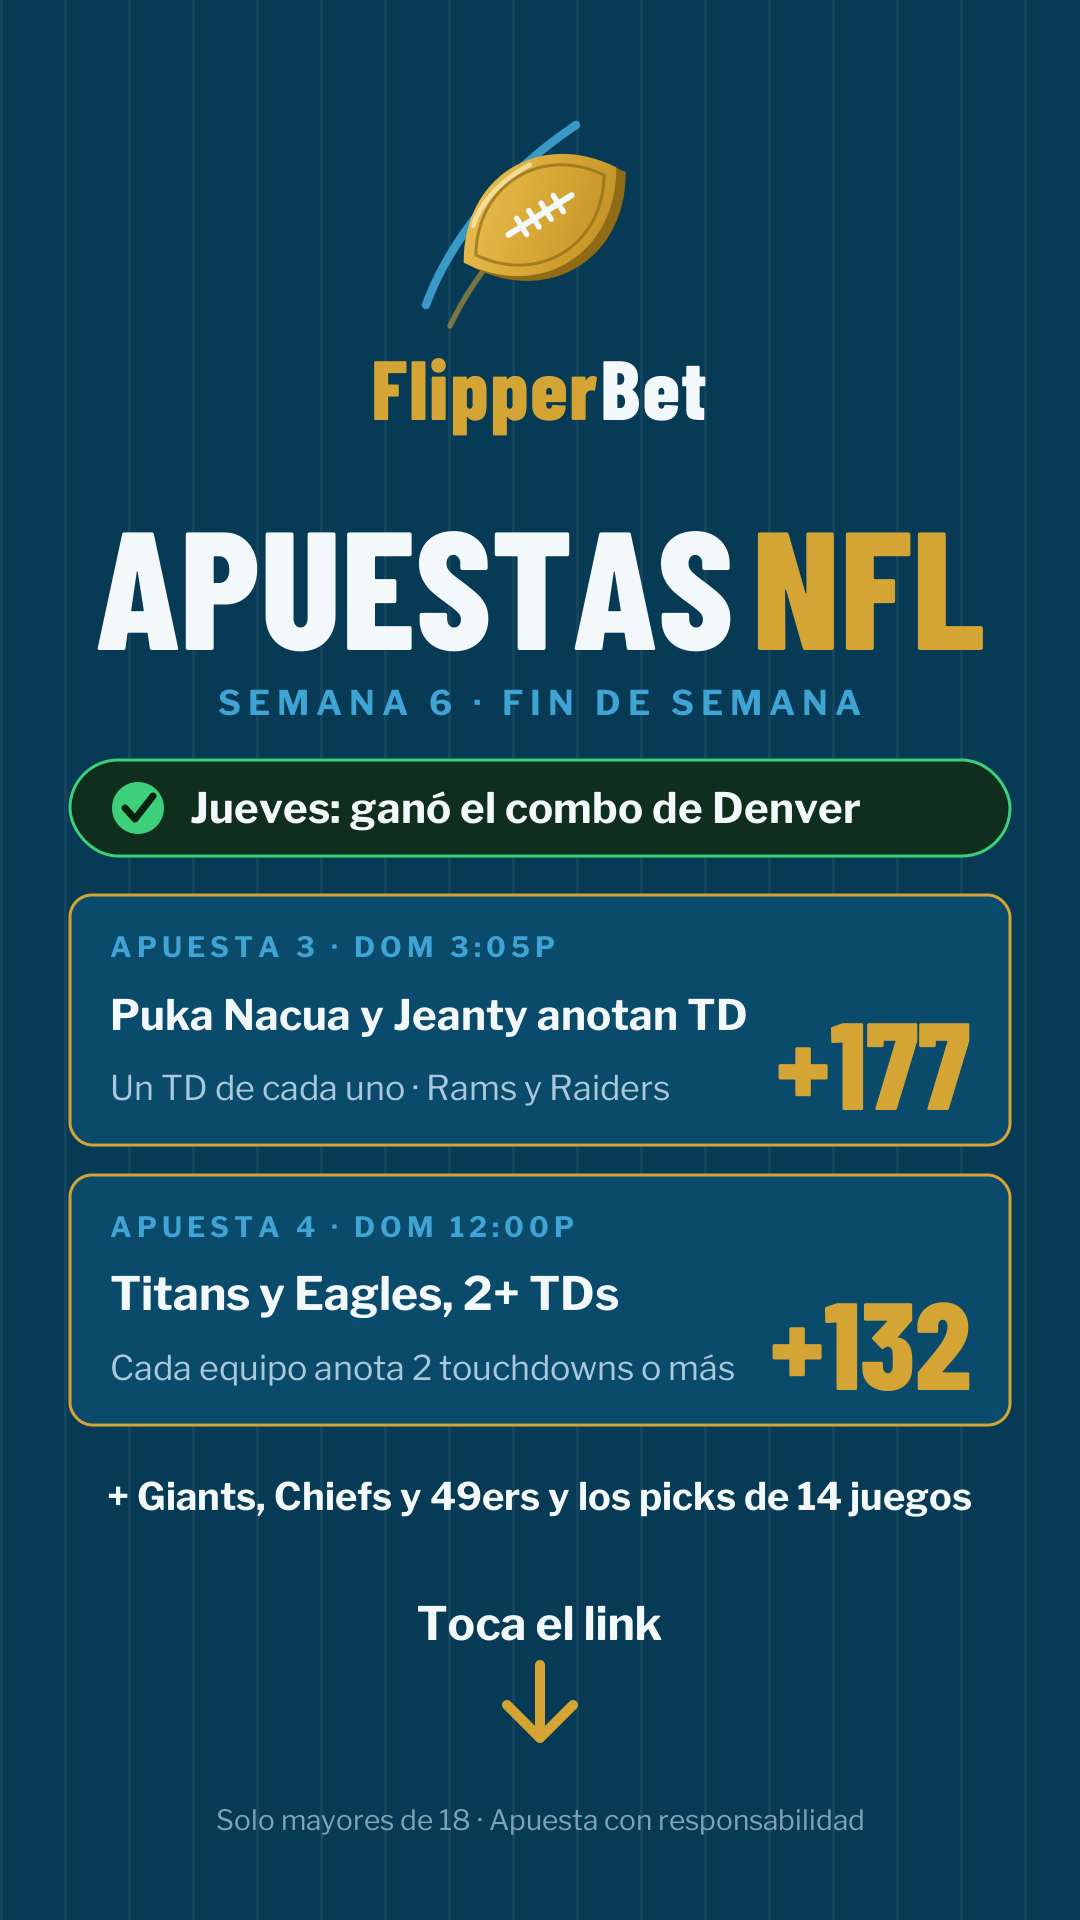
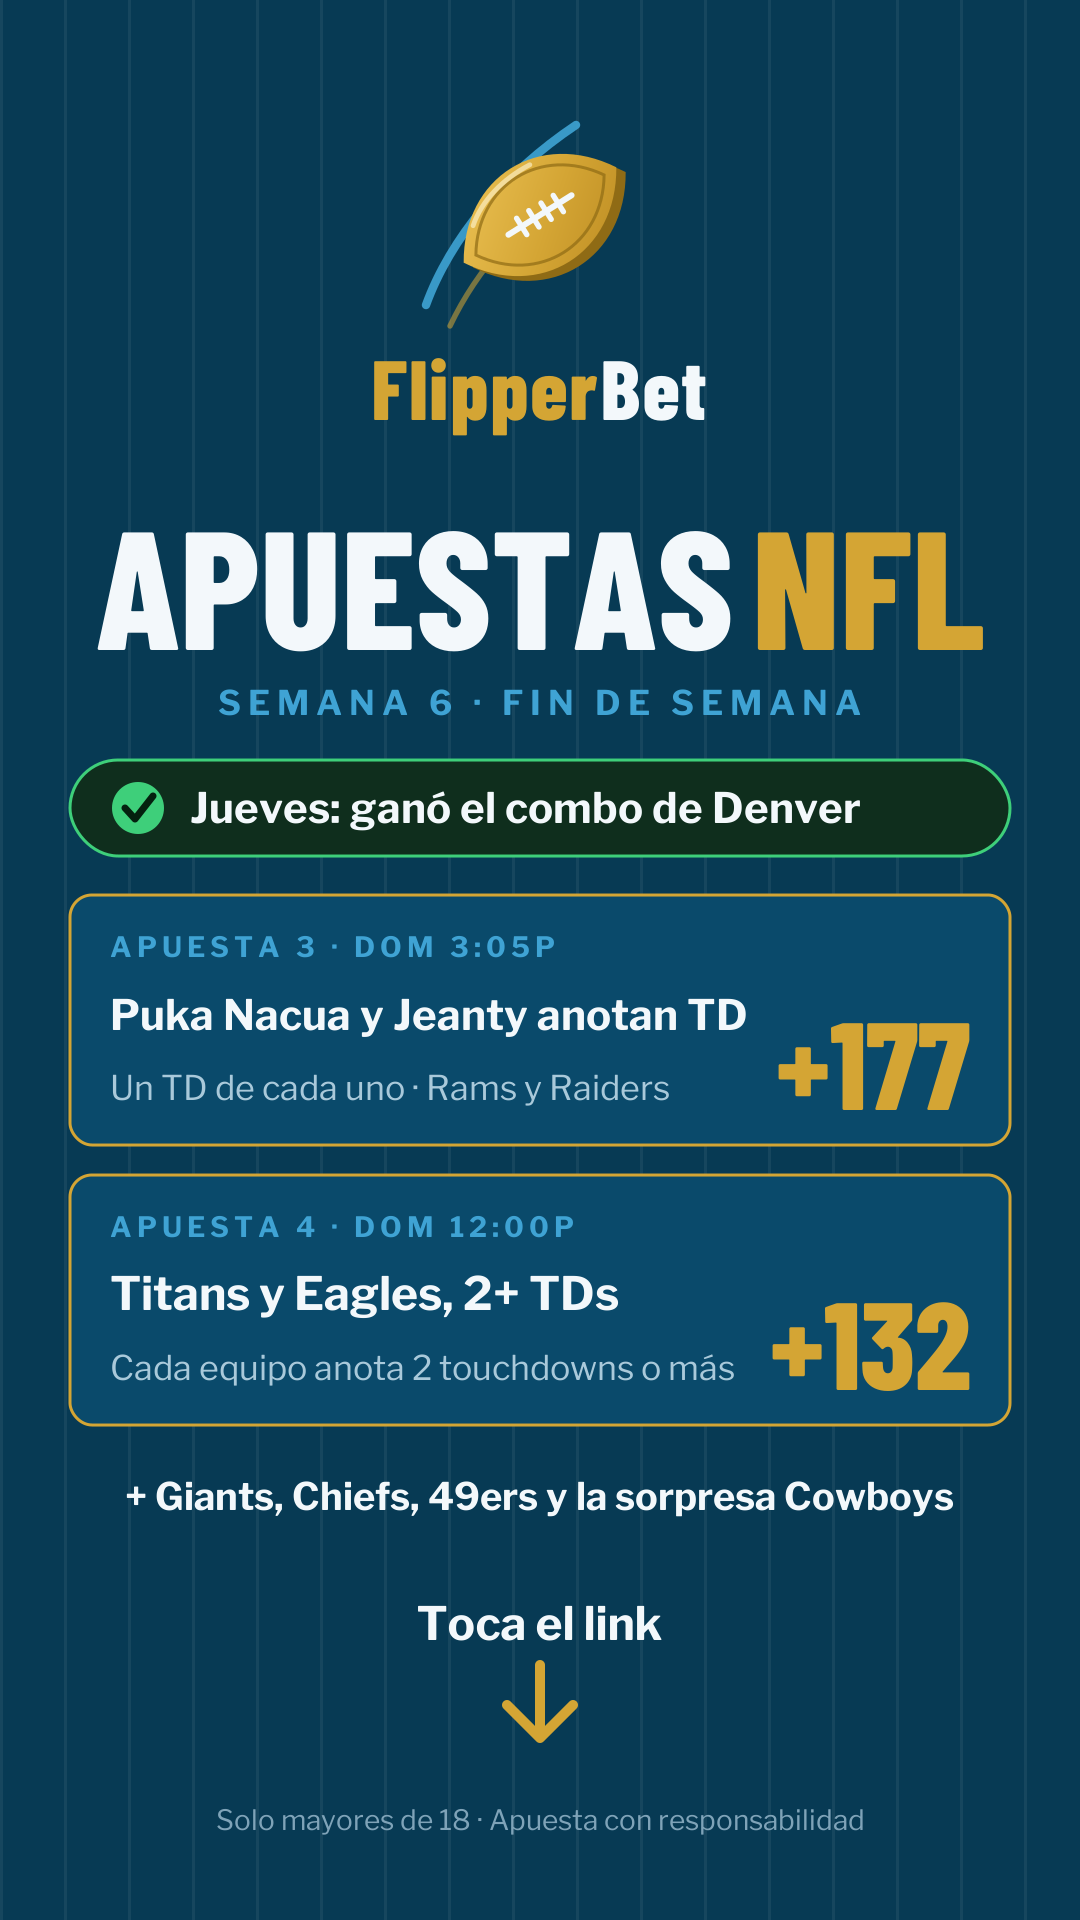
Semana 6: Cowboys como sorpresa en DAL @ GB y pick cambiado a DAL; historias actualizadas
Claude-Session: https://claude.ai/code/session_01QeM3HeHPtdJUYaWBPFXKuZ

Changed region(s): [[0.55, 0.75, 0.8861, 0.8125], [0.1222, 0.75, 0.3972, 0.8125], [0.3972, 0.75, 0.4278, 0.7812]]

diff --git a/semanas/2026-semana-6.html b/semanas/2026-semana-6.html
@@ -14,7 +14,7 @@
 <title>FlippBetBlog NFL Semana 6</title>
 <meta name="description" content="Blog semanal de NFL en español: quién puede dar la sorpresa y la clave de cada partido, explicado fácil.">
 <meta property="og:title" content="FlippBetBlog NFL · Semana 6">
-<meta property="og:description" content="Las 2 sorpresas posibles y la clave de los 14 partidos de la Semana 6, explicado fácil.">
+<meta property="og:description" content="Las 3 sorpresas posibles y la clave de los 14 partidos de la Semana 6, explicado fácil.">
 <meta property="og:type" content="article">
 <meta property="og:url" content="https://jlmz2010.github.io/flipperbet/semanas/2026-semana-6.html">
 <meta property="og:locale" content="es_MX">
@@ -151,7 +151,7 @@ footer strong{color:var(--warn)}
   <div class="hero">
     <div class="eyebrow">NFL 2026 · Publicado 15 oct · Actualizado 17 oct</div>
     <h1>Semana <em>6</em></h1>
-    <p class="dek">Qué puede decidir cada partido, contado en corto y sin enredos. Más los dos equipos que pueden dar la sorpresa.</p>
+    <p class="dek">Qué puede decidir cada partido, contado en corto y sin enredos. Más los tres equipos que pueden dar la sorpresa.</p>
     <div class="byline"><span>Por Flipper</span><span>Lectura: 5 min</span><span>14 partidos</span></div>
   </div>
 
@@ -164,18 +164,20 @@ footer strong{color:var(--warn)}
     <div class="dog-head">
       <div style="display:flex;flex-direction:column;gap:8px">
         <span class="tag">Pueden dar la sorpresa</span>
-        <h2>Giants y Broncos</h2>
-        <div class="eyebrow">Jueves 7:15p · domingo 12:00p (hora Cancún)</div>
+        <h2>Giants, Broncos y Cowboys</h2>
+        <div class="eyebrow">Jueves 7:15p · domingo 12:00p y 7:20p (hora Cancún)</div>
       </div>
-      <div class="line-chip">2 sorpresas</div>
+      <div class="line-chip">3 sorpresas</div>
     </div>
     <div class="dogs">
       <div class="dogcard won"><span class="eyebrow">Jueves 7:15p · Seahawks en Broncos <span class="won-badge">GANÓ</span></span><h3>Broncos</h3><p class="chance">Posibilidad de ganar: <strong>4 de 10</strong></p><p><strong>Resultado: Broncos 17, Seahawks 14 (tiempo extra).</strong> Sam Darnold lanzó dos intercepciones, la última en el primer ataque del tiempo extra, y Wil Lutz lo cerró con gol de campo de 53 yardas. Los dos equipos llegan con 3 ganados y 2 perdidos, y casi nada los separa. Denver juega en casa y con solo tres días de descanso eso pesa más. La pregunta del partido: ¿Seattle cuida el balón o lo regala?</p></div>
       <div class="dogcard"><span class="eyebrow">Domingo 12:00p · Saints en Giants</span><h3>Giants</h3><p class="chance">Posibilidad de ganar: <strong>5 de 10</strong> (casi parejo)</p><p>Nueva York tiene un buen juego de pases con Malik Nabers e Isaiah Likely, y al corredor Cam Skattebo le toca una defensa de los Saints que sufre para frenar la carrera. Además los Giants patean y regresan mejor. Gana quien cometa menos errores.</p></div>
+      <div class="dogcard"><span class="eyebrow">Domingo 7:20p · Cowboys en Packers</span><h3>Cowboys</h3><p class="chance">Posibilidad de ganar: <strong>5 de 10</strong> (casi parejo)</p><p>Quizá el partido más difícil de la semana. Los dos lanzan pases largos y los dos sufren para defenderlos. Green Bay tiene a favor jugar en casa, y casi nada más los separa.</p></div>
     </div>
     <ul>
       <li><strong>Por qué los Broncos:</strong> partido muy cerrado, en casa y en jueves. Si Seattle pierde el balón una o dos veces, Denver lo puede ganar.</li>
       <li><strong>Por qué los Giants:</strong> en la práctica es un volado, y Nueva York tiene más formas de ganarlo: corriendo, defendiendo el pase y en equipos especiales.</li>
+      <li><strong>Por qué los Cowboys:</strong> es casi un volado y Dallas tiene con qué castigar una defensa que sufre contra el pase largo. Lo agregamos el sábado.</li>
       <li>¿Te interesa apostar? En <a href="../apuestas/">Apuestas NFL</a> explicamos paso a paso nuestras jugadas de la semana y todos mis picks.</li>
     </ul>
     <p class="note">La semana pasada: Ravens dio la sorpresa (30-23 en tiempo extra); Browns (12-17) y Colts (22-34) no pudieron. Esto es una opinión, no una garantía. Las posibilidades salen de los momios de casas de apuestas al 15 oct 2026 y pueden cambiar. Si cambiamos algo, lo actualizamos aquí antes del partido.</p>
@@ -233,7 +235,7 @@ footer strong{color:var(--warn)}
           <tr><td>Cardinals</td><td><strong class="fav">Rams</strong> <span class="fav-badge">FAV</span></td><td>Muy claro · 9 de 10</td><td>dom 3:05p</td></tr>
           <tr><td>Chargers</td><td><strong class="fav">Chiefs</strong> <span class="fav-badge">FAV</span></td><td>Muy claro · 8 de 10</td><td>dom 3:25p</td></tr>
           <tr><td><strong class="fav">Bills</strong> <span class="fav-badge">FAV</span></td><td>Raiders</td><td>Claro · 7 de 10</td><td>dom 3:25p</td></tr>
-          <tr><td>Cowboys</td><td><strong class="fav">Packers</strong> <span class="fav-badge">FAV</span></td><td>Casi parejo · 5 de 10</td><td>dom 7:20p</td></tr>
+          <tr class="hl"><td>Cowboys <span class="dog-badge">Sorpresa FB</span></td><td><strong class="fav">Packers</strong> <span class="fav-badge">FAV</span></td><td>Casi parejo · 5 de 10</td><td>dom 7:20p</td></tr>
           <tr><td>Commanders</td><td><strong class="fav">49ers</strong> <span class="fav-badge">FAV</span></td><td>Muy claro · 8 de 10</td><td>lun 7:15p</td></tr>
         </tbody>
       </table>

diff --git a/index.html b/index.html
@@ -14,7 +14,7 @@
 <title>FlippBetBlog NFL Semana 6</title>
 <meta name="description" content="Blog semanal de NFL en español: quién puede dar la sorpresa y la clave de cada partido, explicado fácil.">
 <meta property="og:title" content="FlippBetBlog NFL · Semana 6">
-<meta property="og:description" content="Las 2 sorpresas posibles y la clave de los 14 partidos de la Semana 6, explicado fácil.">
+<meta property="og:description" content="Las 3 sorpresas posibles y la clave de los 14 partidos de la Semana 6, explicado fácil.">
 <meta property="og:type" content="article">
 <meta property="og:url" content="https://jlmz2010.github.io/flipperbet/">
 <meta property="og:locale" content="es_MX">
@@ -151,7 +151,7 @@ footer strong{color:var(--warn)}
   <div class="hero">
     <div class="eyebrow">NFL 2026 · Publicado 15 oct · Actualizado 17 oct</div>
     <h1>Semana <em>6</em></h1>
-    <p class="dek">Qué puede decidir cada partido, contado en corto y sin enredos. Más los dos equipos que pueden dar la sorpresa.</p>
+    <p class="dek">Qué puede decidir cada partido, contado en corto y sin enredos. Más los tres equipos que pueden dar la sorpresa.</p>
     <div class="byline"><span>Por Flipper</span><span>Lectura: 5 min</span><span>14 partidos</span></div>
   </div>
 
@@ -164,18 +164,20 @@ footer strong{color:var(--warn)}
     <div class="dog-head">
       <div style="display:flex;flex-direction:column;gap:8px">
         <span class="tag">Pueden dar la sorpresa</span>
-        <h2>Giants y Broncos</h2>
-        <div class="eyebrow">Jueves 7:15p · domingo 12:00p (hora Cancún)</div>
+        <h2>Giants, Broncos y Cowboys</h2>
+        <div class="eyebrow">Jueves 7:15p · domingo 12:00p y 7:20p (hora Cancún)</div>
       </div>
-      <div class="line-chip">2 sorpresas</div>
+      <div class="line-chip">3 sorpresas</div>
     </div>
     <div class="dogs">
       <div class="dogcard won"><span class="eyebrow">Jueves 7:15p · Seahawks en Broncos <span class="won-badge">GANÓ</span></span><h3>Broncos</h3><p class="chance">Posibilidad de ganar: <strong>4 de 10</strong></p><p><strong>Resultado: Broncos 17, Seahawks 14 (tiempo extra).</strong> Sam Darnold lanzó dos intercepciones, la última en el primer ataque del tiempo extra, y Wil Lutz lo cerró con gol de campo de 53 yardas. Los dos equipos llegan con 3 ganados y 2 perdidos, y casi nada los separa. Denver juega en casa y con solo tres días de descanso eso pesa más. La pregunta del partido: ¿Seattle cuida el balón o lo regala?</p></div>
       <div class="dogcard"><span class="eyebrow">Domingo 12:00p · Saints en Giants</span><h3>Giants</h3><p class="chance">Posibilidad de ganar: <strong>5 de 10</strong> (casi parejo)</p><p>Nueva York tiene un buen juego de pases con Malik Nabers e Isaiah Likely, y al corredor Cam Skattebo le toca una defensa de los Saints que sufre para frenar la carrera. Además los Giants patean y regresan mejor. Gana quien cometa menos errores.</p></div>
+      <div class="dogcard"><span class="eyebrow">Domingo 7:20p · Cowboys en Packers</span><h3>Cowboys</h3><p class="chance">Posibilidad de ganar: <strong>5 de 10</strong> (casi parejo)</p><p>Quizá el partido más difícil de la semana. Los dos lanzan pases largos y los dos sufren para defenderlos. Green Bay tiene a favor jugar en casa, y casi nada más los separa.</p></div>
     </div>
     <ul>
       <li><strong>Por qué los Broncos:</strong> partido muy cerrado, en casa y en jueves. Si Seattle pierde el balón una o dos veces, Denver lo puede ganar.</li>
       <li><strong>Por qué los Giants:</strong> en la práctica es un volado, y Nueva York tiene más formas de ganarlo: corriendo, defendiendo el pase y en equipos especiales.</li>
+      <li><strong>Por qué los Cowboys:</strong> es casi un volado y Dallas tiene con qué castigar una defensa que sufre contra el pase largo. Lo agregamos el sábado.</li>
       <li>¿Te interesa apostar? En <a href="apuestas/">Apuestas NFL</a> explicamos paso a paso nuestras jugadas de la semana y todos mis picks.</li>
     </ul>
     <p class="note">La semana pasada: Ravens dio la sorpresa (30-23 en tiempo extra); Browns (12-17) y Colts (22-34) no pudieron. Esto es una opinión, no una garantía. Las posibilidades salen de los momios de casas de apuestas al 15 oct 2026 y pueden cambiar. Si cambiamos algo, lo actualizamos aquí antes del partido.</p>
@@ -233,7 +235,7 @@ footer strong{color:var(--warn)}
           <tr><td>Cardinals</td><td><strong class="fav">Rams</strong> <span class="fav-badge">FAV</span></td><td>Muy claro · 9 de 10</td><td>dom 3:05p</td></tr>
           <tr><td>Chargers</td><td><strong class="fav">Chiefs</strong> <span class="fav-badge">FAV</span></td><td>Muy claro · 8 de 10</td><td>dom 3:25p</td></tr>
           <tr><td><strong class="fav">Bills</strong> <span class="fav-badge">FAV</span></td><td>Raiders</td><td>Claro · 7 de 10</td><td>dom 3:25p</td></tr>
-          <tr><td>Cowboys</td><td><strong class="fav">Packers</strong> <span class="fav-badge">FAV</span></td><td>Casi parejo · 5 de 10</td><td>dom 7:20p</td></tr>
+          <tr class="hl"><td>Cowboys <span class="dog-badge">Sorpresa FB</span></td><td><strong class="fav">Packers</strong> <span class="fav-badge">FAV</span></td><td>Casi parejo · 5 de 10</td><td>dom 7:20p</td></tr>
           <tr><td>Commanders</td><td><strong class="fav">49ers</strong> <span class="fav-badge">FAV</span></td><td>Muy claro · 8 de 10</td><td>lun 7:15p</td></tr>
         </tbody>
       </table>

diff --git a/apuestas/index.html b/apuestas/index.html
@@ -251,7 +251,7 @@ const DATA = {
   weeks: {
     6: {
       stamp: "Semana 6 · actualizado sáb 17 oct 2026",
-      lede: "El jueves pegó: los Broncos dieron la sorpresa 17-14 en tiempo extra y el combo de Denver ganó completo. Para el domingo siguen los Giants a ganar y la combinada de Chiefs y 49ers, y sumamos dos apuestas nuevas: touchdowns de Puka Nacua y Ashton Jeanty, y Titans y Eagles con 2 touchdowns o más.",
+      lede: "El jueves pegó: los Broncos dieron la sorpresa 17-14 en tiempo extra y el combo de Denver ganó completo. Para el domingo siguen los Giants a ganar y la combinada de Chiefs y 49ers, y sumamos dos apuestas nuevas: touchdowns de Puka Nacua y Ashton Jeanty, y Titans y Eagles con 2 touchdowns o más. Nueva sorpresa: los Cowboys en Green Bay (domingo en la noche).",
       src: "Momios tomados de casas de apuestas (15 oct 2026). Análisis y opiniones: FlippBetBlog.",
       bets: [
         { kind:"Apuesta 1", title:"Giants ganan", legs:["Los Giants le ganan a los Saints (domingo)"], odds:"-105", prob:"Vegas: 49.3%", when:"dom 12:00p", why:"Nuestra sorpresa de la semana. Es casi un volado: los Giants patean mejor y Cam Skattebo enfrenta una defensa que sufre para frenar la carrera." }
@@ -262,7 +262,8 @@ const DATA = {
       ],
       dogs: [
         { label:"Underdog por números", team:"Giants", code:"NYG", game:"NO @ NYG", when:"dom 12:00p", ml:"-105", pct:49.3, favTeam:"NO", favPct:50.7, text:"Casi un volado. Nueva York tiene más formas de ganar: corriendo, defendiendo el pase y en equipos especiales." },
-        { label:"Underdog premium", won:true, team:"Broncos", code:"DEN", game:"SEA @ DEN", when:"jue 7:15p", ml:"+125", pct:43.0, favTeam:"SEA", favPct:57.0, text:"Ganó: Denver 17, Seattle 14 (tiempo extra)." }
+        { label:"Underdog premium", won:true, team:"Broncos", code:"DEN", game:"SEA @ DEN", when:"jue 7:15p", ml:"+125", pct:43.0, favTeam:"SEA", favPct:57.0, text:"Ganó: Denver 17, Seattle 14 (tiempo extra)." },
+        { label:"Mi underdog", team:"Cowboys", code:"DAL", game:"DAL @ GB", when:"dom 7:20p", ml:"+101", pct:47.8, favTeam:"GB", favPct:52.2, text:"Casi parejo. Los dos lanzan largo y los dos sufren para defender el pase; Green Bay solo tiene a favor la localía." }
       ],
       games: [
         {g:"SEA @ DEN", t:"jue 7:15p", ml:["-139","+128"], fav:"SEA", pct:57.0, pick:"SEA", r:[14,17]},
@@ -277,7 +278,7 @@ const DATA = {
         {g:"ARI @ LAR", t:"dom 3:05p", ml:["+600","-833"], fav:"LAR", pct:86.2, pick:"LAR"},
         {g:"LAC @ KC", t:"dom 3:25p", ml:["+355","-435"], fav:"KC", pct:78.7, pick:"KC"},
         {g:"BUF @ LV", t:"dom 3:25p", ml:["-244","+205"], fav:"BUF", pct:68.4, pick:"BUF"},
-        {g:"DAL @ GB", t:"dom 7:20p", ml:["+101","-119"], fav:"GB", pct:52.2, pick:"GB"},
+        {g:"DAL @ GB", t:"dom 7:20p", ml:["+101","-119"], fav:"GB", pct:52.2, pick:"DAL"},
         {g:"WSH @ SF", t:"lun 7:15p", ml:["+330","-400"], fav:"SF", pct:77.5, pick:"SF"}
       ]
     },

diff --git a/tools/historias_apuestas.py b/tools/historias_apuestas.py
@@ -96,7 +96,7 @@ SEMANAS = {
     6: dict(jueves="Jueves: ganó el combo de Denver",
             b3=("APUESTA 3 · DOM 3:05P", "Puka Nacua y Jeanty anotan TD", "+177", "Un TD de cada uno · Rams y Raiders", 42),
             b4=("APUESTA 4 · DOM 12:00P", "Titans y Eagles, 2+ TDs", "+132", "Cada equipo anota 2 touchdowns o más", 46),
-            extra="+ Giants, Chiefs y 49ers y los picks de 14 juegos"),
+            extra="+ Giants, Chiefs, 49ers y la sorpresa Cowboys"),
 }
 
 def story(ig):
